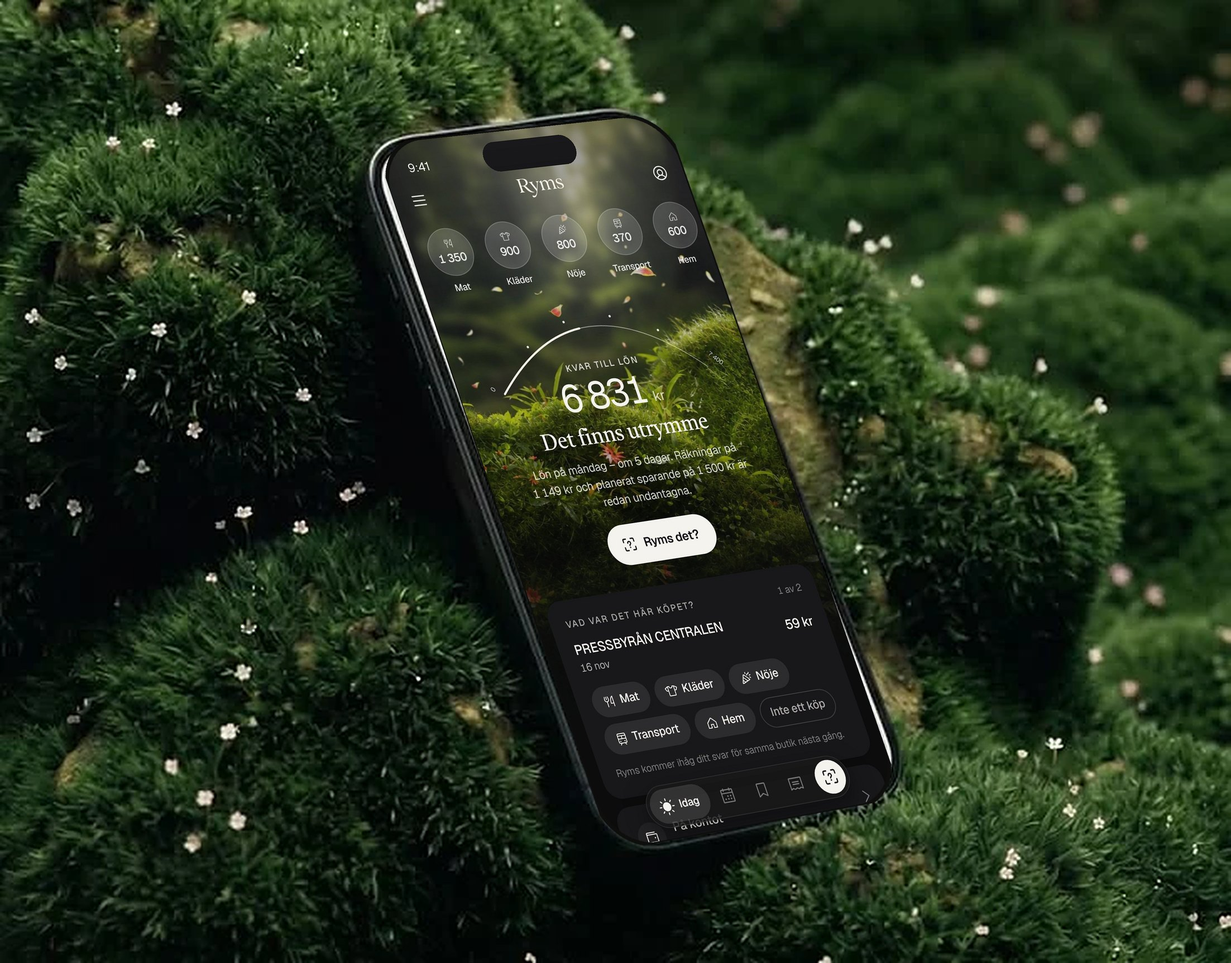
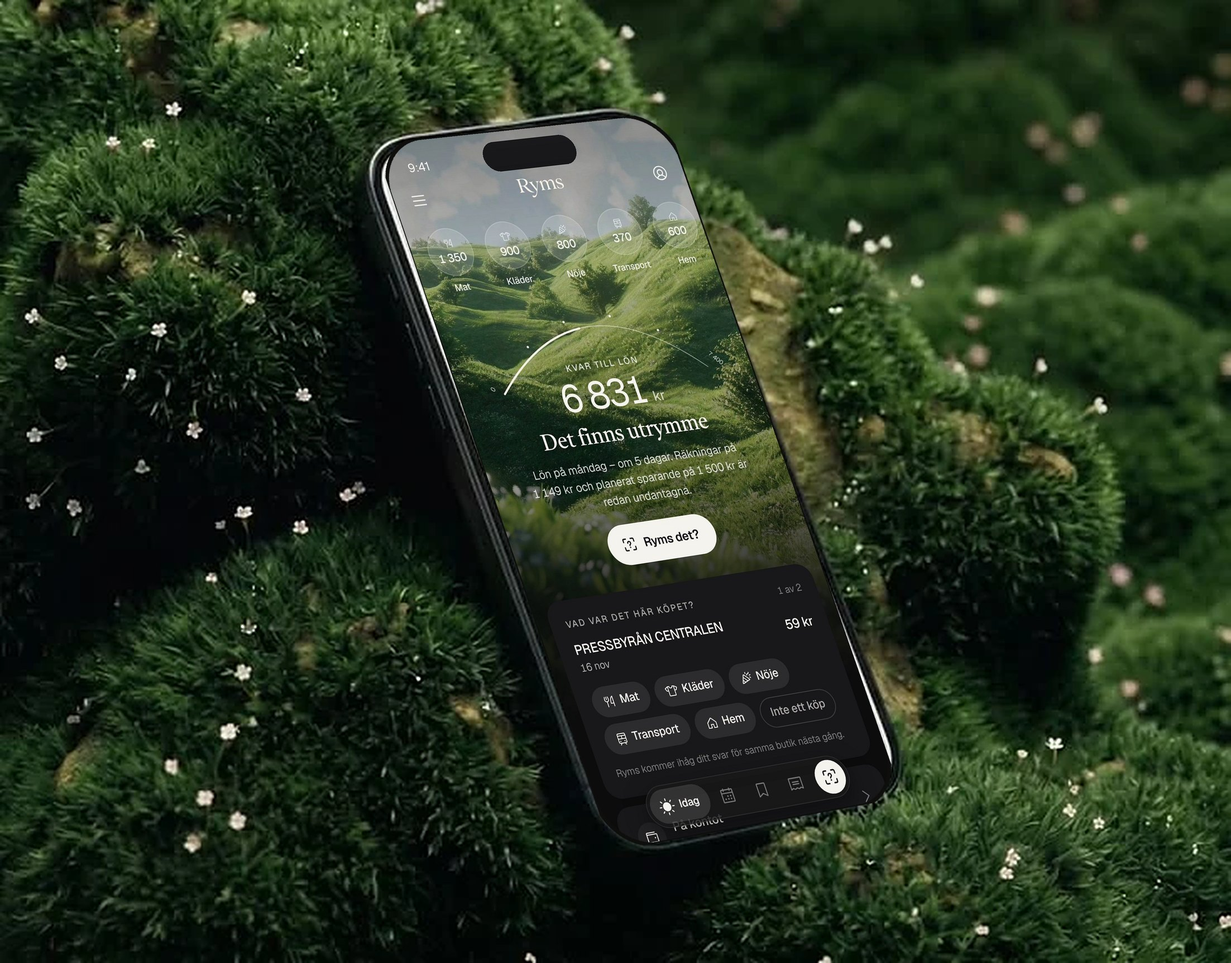
Gröna kullar som bakgrund i appen, med böljande gräs
Claude-Session: https://claude.ai/code/session_01GAD7svFHpQ8hFb5MfyqAze

Changed region(s): [[0.3084, 0.1229, 0.6785, 0.6452]]

diff --git a/src/components/Backdrop.tsx b/src/components/Backdrop.tsx
@@ -1,34 +1,22 @@
 /**
- * Fotot i toppen av appen: en mossklädd kulle i skogen. Blomblad singlar ned och ljuset
- * mellan träden andas långsamt, så att bilden känns levande – som en stilla film.
+ * Fotot i toppen av appen: gröna kullar under en ljus himmel. Gräset böljar långsamt, som i vinden:
+ * en andra kopia av bilden, maskad till kullarna, förskjuts av ett mjukt brus som sakta ändras.
  */
-/** Blombladen som singlar ned: fasta värden, så att servern och webbläsaren ritar samma sak. */
-const PETALS = [
-  { x: 6, s: 7, d: 19, o: 3, c: "#f2a6a0" },
-  { x: 17, s: 5, d: 24, o: 11, c: "#f6d9a8" },
-  { x: 29, s: 8, d: 17, o: 7, c: "#ef8f8a" },
-  { x: 41, s: 5, d: 27, o: 19, c: "#f7e3c2" },
-  { x: 52, s: 7, d: 21, o: 1, c: "#f4b3ad" },
-  { x: 63, s: 6, d: 25, o: 14, c: "#f6d9a8" },
-  { x: 71, s: 8, d: 18, o: 9, c: "#ee8a7c" },
-  { x: 82, s: 5, d: 29, o: 22, c: "#f7e3c2" },
-  { x: 90, s: 7, d: 20, o: 5, c: "#f2a6a0" },
-  { x: 36, s: 4, d: 31, o: 16, c: "#f6d9a8" },
-  { x: 58, s: 4, d: 33, o: 26, c: "#f4b3ad" },
-  { x: 77, s: 6, d: 23, o: 12, c: "#ef8f8a" },
-];
-
 export function Backdrop() {
   return (
     <div className="backdrop" aria-hidden>
+      <svg width="0" height="0" style={{ position: "absolute" }} focusable="false">
+        <filter id="ryms-wave" x="-6%" y="-6%" width="112%" height="112%" colorInterpolationFilters="sRGB">
+          <feTurbulence type="fractalNoise" baseFrequency="0.006 0.016" numOctaves="2" seed="4" result="noise">
+            <animate attributeName="baseFrequency" dur="16s" values="0.006 0.016;0.011 0.026;0.007 0.019;0.006 0.016" keyTimes="0;0.4;0.75;1" repeatCount="indefinite" />
+          </feTurbulence>
+          <feDisplacementMap in="SourceGraphic" in2="noise" scale="16" xChannelSelector="R" yChannelSelector="G" />
+        </filter>
+      </svg>
       {/* eslint-disable-next-line @next/next/no-img-element */}
       <img className="photo" src="/bg/hero.jpg" alt="" />
-      <div className="rays" />
-      <div className="petals">
-        {PETALS.map((p, i) => (
-          <i key={i} style={{ left: `${p.x}%`, width: p.s, height: p.s * 1.7, background: p.c, animationDuration: `${p.d}s, ${p.d / 3.1}s`, animationDelay: `${-p.o}s, ${-p.o / 2}s` }} />
-        ))}
-      </div>
+      {/* eslint-disable-next-line @next/next/no-img-element */}
+      <img className="wave" src="/bg/hero.jpg" alt="" />
     </div>
   );
 }

diff --git a/src/app/globals.css b/src/app/globals.css
@@ -2241,3 +2241,20 @@ body:not(:has(.shell.home)):not(:has([data-testid="result"])) .backdrop::after {
 .backdrop::after {
   background: linear-gradient(180deg, rgba(12, 12, 13, 0.5) 0%, rgba(12, 12, 13, 0.2) 26%, rgba(12, 12, 13, 0.3) 56%, rgba(12, 12, 13, 0.86) 84%, var(--bg) 100%);
 }
+
+/* ═════════ Gröna kullar under ljus himmel: gräset böljar, himlen står still ═════════ */
+.backdrop img.photo,
+.backdrop img.wave {
+  object-position: 50% 30%;
+  filter: none;
+}
+.backdrop img.wave {
+  position: absolute;
+  inset: 0;
+  filter: url(#ryms-wave);
+  -webkit-mask-image: linear-gradient(180deg, transparent 0%, transparent 26%, #000 38%);
+  mask-image: linear-gradient(180deg, transparent 0%, transparent 26%, #000 38%);
+}
+.backdrop::after {
+  background: linear-gradient(180deg, rgba(12, 12, 13, 0.5) 0%, rgba(12, 12, 13, 0.26) 24%, rgba(12, 12, 13, 0.36) 56%, rgba(12, 12, 13, 0.88) 84%, var(--bg) 100%);
+}
